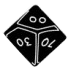
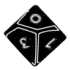
D100

diff --git a/client/templates/board.html b/client/templates/board.html
@@ -36,7 +36,7 @@ controller: BoardController
     </div>
 
     <div class="grid-content shrink" style="border: 1px solid grey; box-shadow: 2px 2px 5px #999;">
-      <div class="grid-block" ng-repeat="x in ['d4', 'd6', 'd8', 'd10', 'd12', 'd20', 'fudge']" style="margin-left:20px;">
+      <div class="grid-block" ng-repeat="x in ['d4', 'd6', 'd8', 'd10', 'd100', 'd12', 'd20', 'fudge']" style="margin-left:20px;">
         <div class="grid-content medium-5" style="padding:0; margin:0;">
           <img src="assets/img/{{x}}.png">
         </div>

diff --git a/client/assets/js/controllers/board.js b/client/assets/js/controllers/board.js
@@ -140,7 +140,7 @@
     // Controles frontend
 
     $scope.input = {};
-    var dados = ['d4', 'd6', 'd8', 'd10', 'd12', 'd20', 'fudge'];
+    var dados = ['d4', 'd6', 'd8', 'd10', 'd100', 'd12', 'd20', 'fudge'];
     for (var i = 0; i < dados.length; i++) {
       $scope.input[dados[i]] = 0; //todos los input a 0
     }
